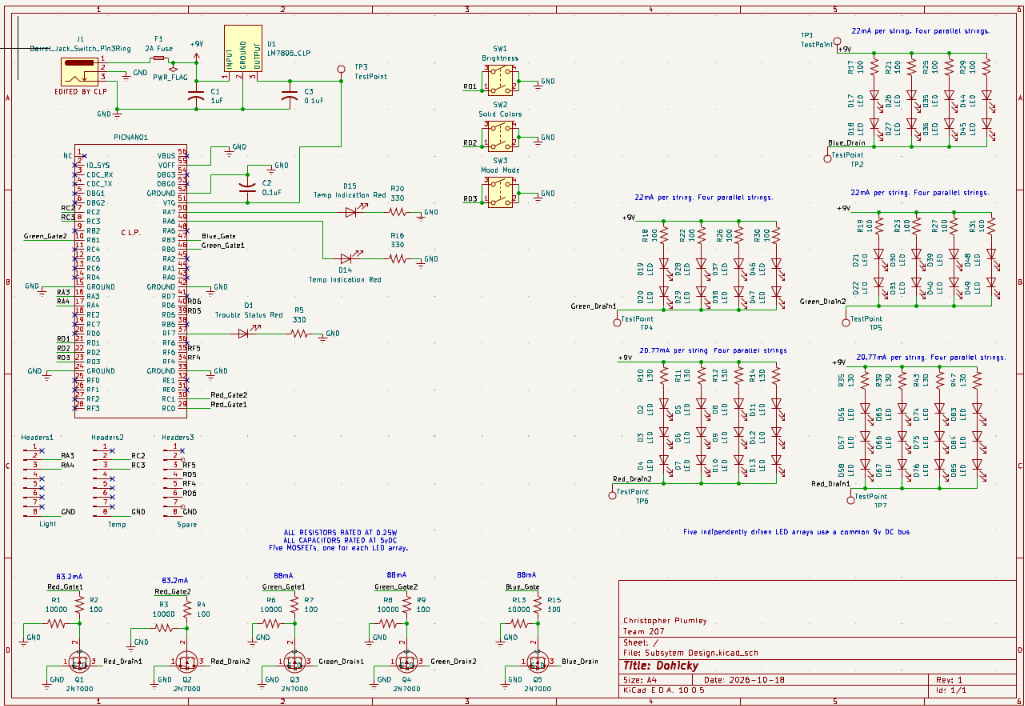
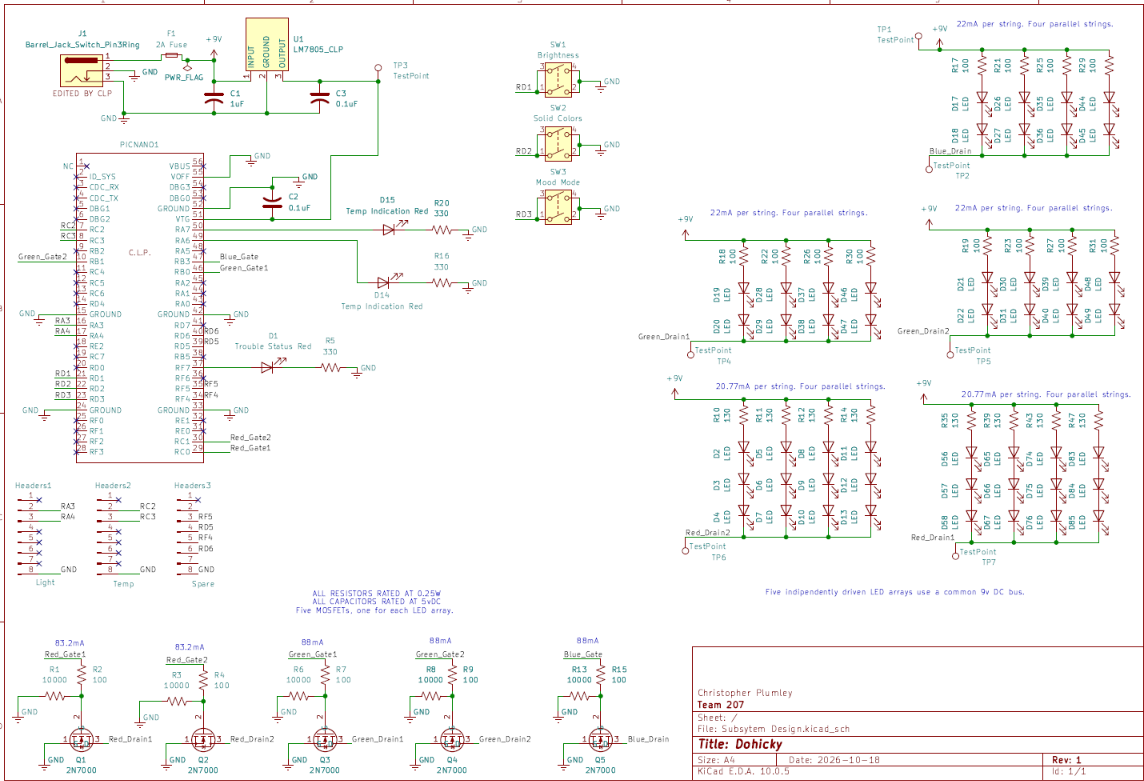
Microcontroller Page

diff --git a/docs/07-API/test2.md b/docs/07-API/test2.md
@@ -1,9 +1,5 @@
 ---
-title: Test 2 for scroll
-tags:
-- tag1
-- tag2
----
+title: Microcontroller Code
+## Microcontroller Code 
 
-## Overview
-written context
+ Zip folder of the project [*here*](Dohicky.zip).
